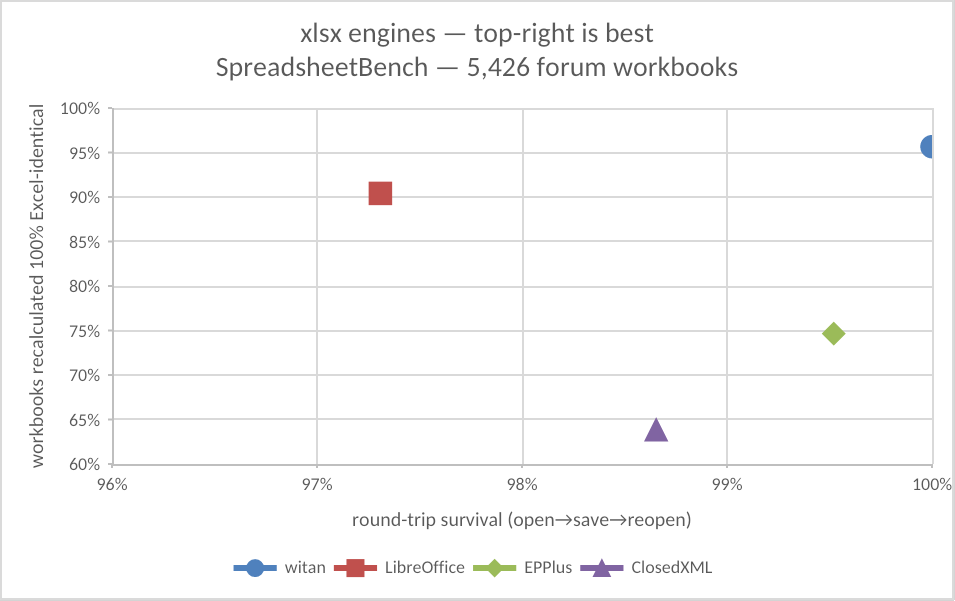
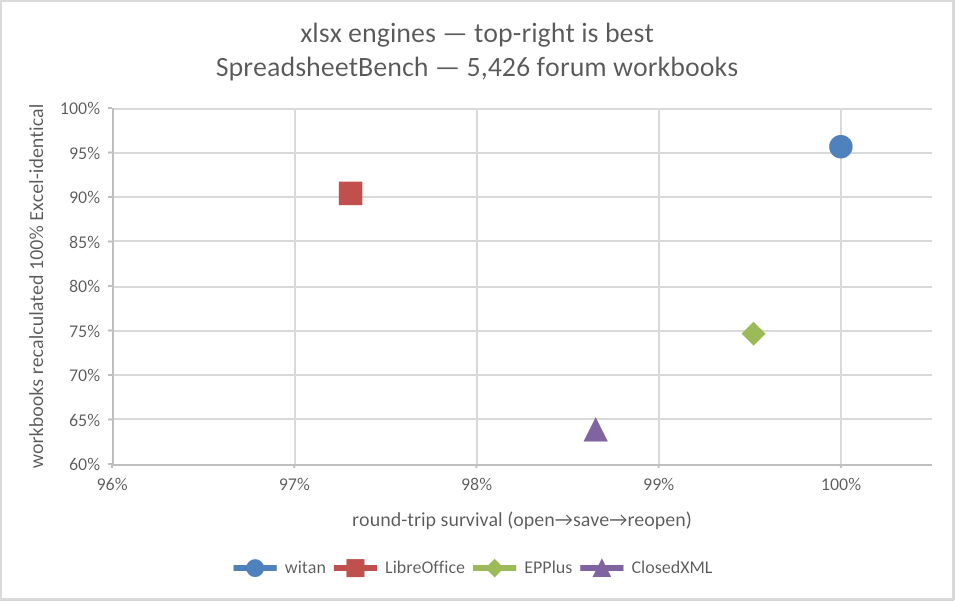
Charts: unlabeled headroom sliver so the 100% boundary marker renders whole

diff --git a/harness/make_charts.py b/harness/make_charts.py
@@ -97,7 +97,7 @@ def main() -> int:
                 "category": {
                     "title": {"text": "round-trip survival (open→save→reopen)"},
                     "numberFormat": "0%", "numberFormatLinked": False,
-                    "min": xmin, "max": 1.0, "majorUnit": 0.01, "majorGridlines": True,
+                    "min": xmin, "max": 1.005, "majorUnit": 0.01, "majorGridlines": True,
                 },
                 "value": {
                     "title": {"text": "workbooks recalculated 100% Excel-identical"},